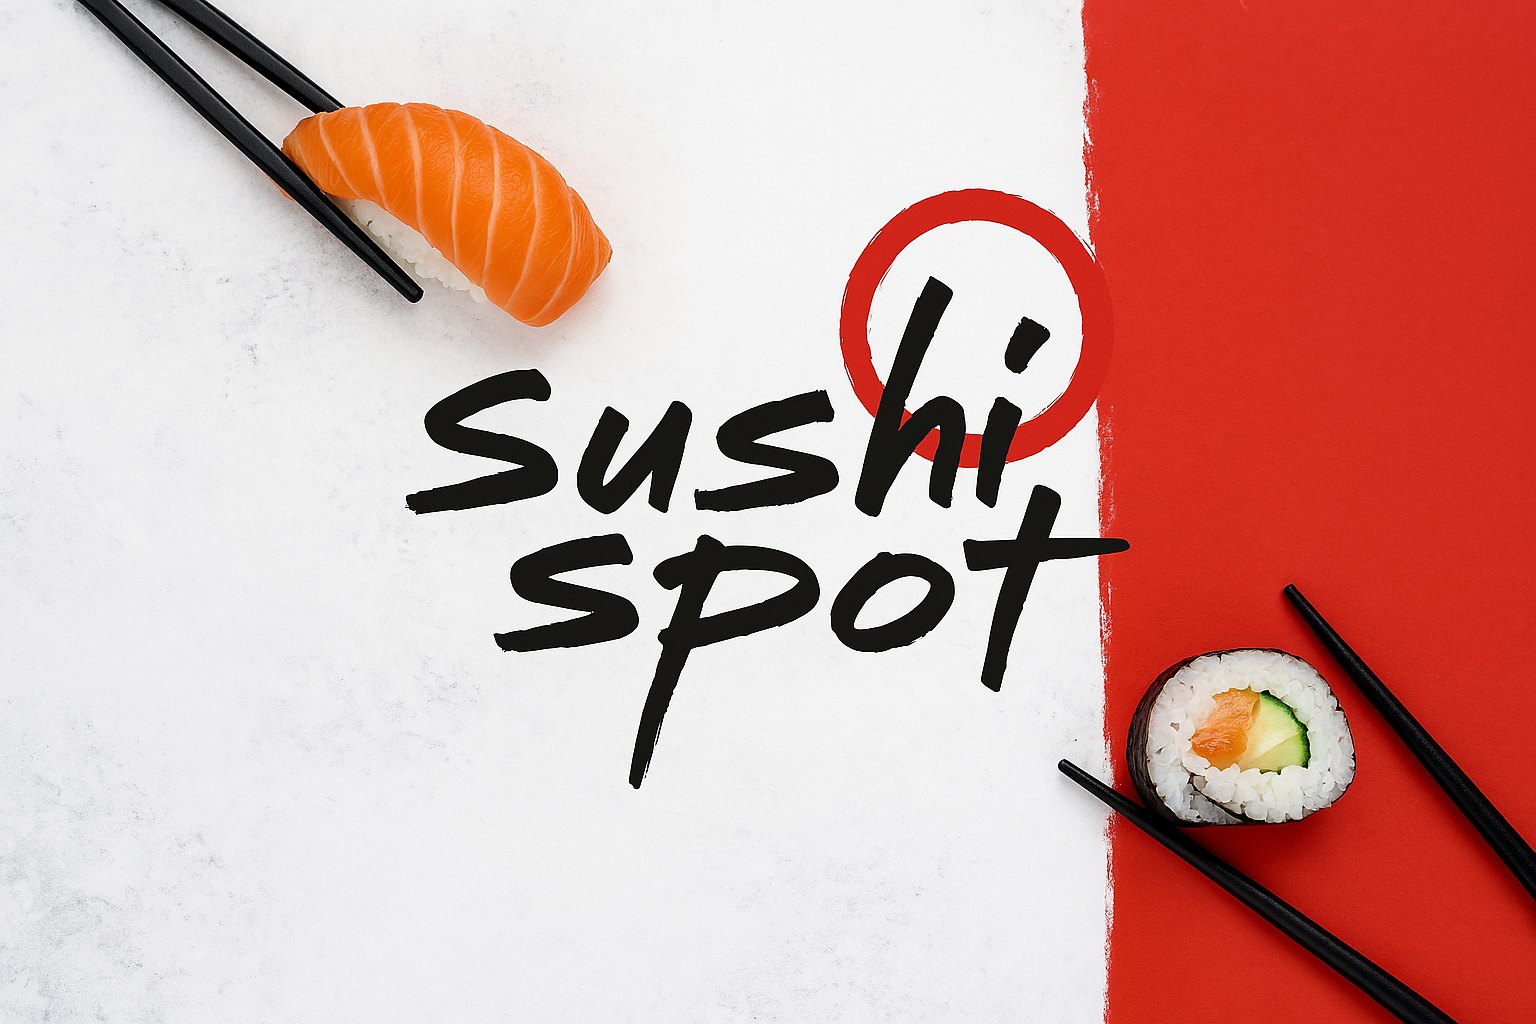
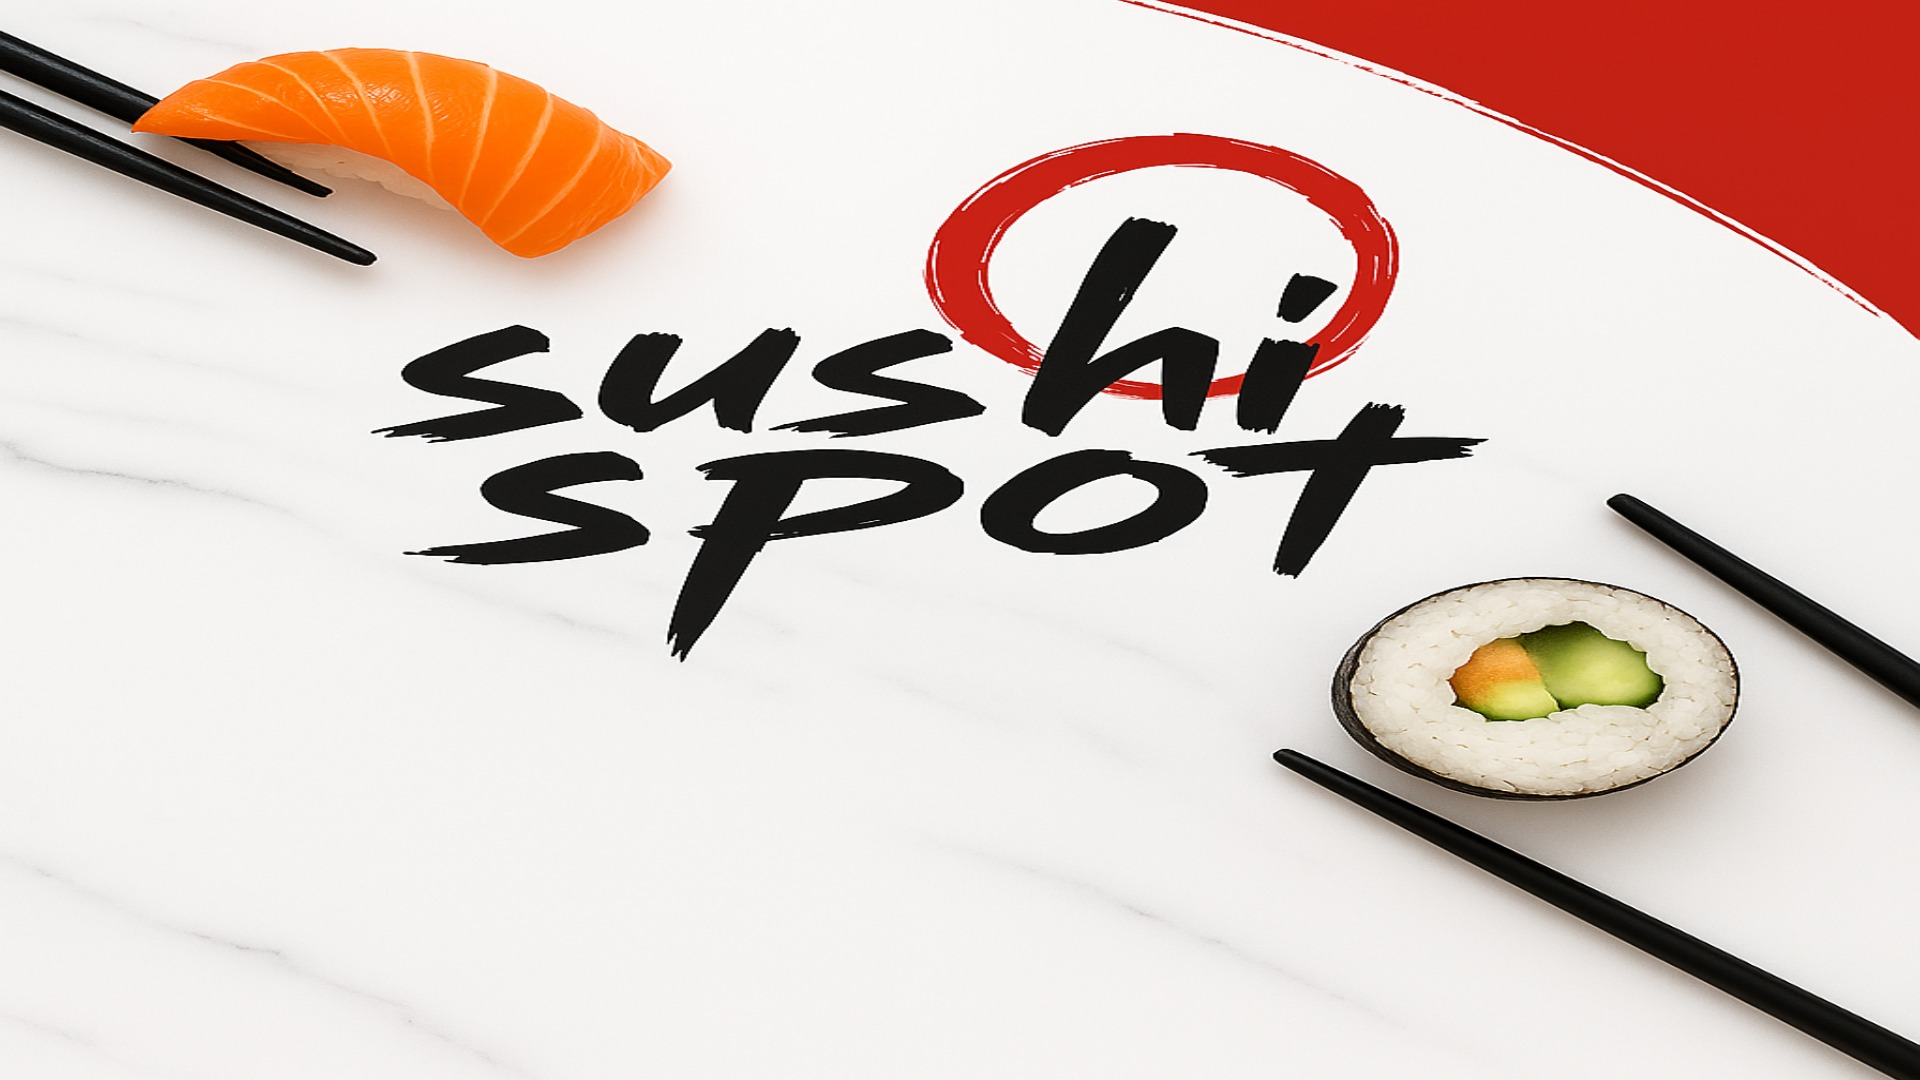
tvoj popis zmeny

diff --git a/SushiSpot/style.css b/SushiSpot/style.css
@@ -4,14 +4,9 @@ body {
   font-family: Arial, sans-serif;
   margin: 0;
   padding: 0;
-  color: #222;
+  color: #fff;
 
-  background-image: url("SushiImage.jpeg");
-  background-size: cover;
-  background-repeat: no-repeat;
-  background-position: center center;
-  background-attachment: fixed;
-
+  
   position: relative;
   z-index: 0;
   min-height: 100vh;
@@ -24,12 +19,17 @@ body::before {
   left: 0;
   width: 100%;
   height: 100%;
-  background-color: rgba(0, 0, 0, 0.3);
+  background-color: rgba(0, 0, 0, 0.4);
   z-index: -1;
 }
 
+/* TIEŇ PRE LEPŠIU ČITATEĽNOSŤ */
+h1, h2, p, label, nav a {
+  text-shadow: 1px 1px 4px rgba(0, 0, 0, 0.7);
+}
+
 header {
-  background-color: transparent; /* odstráni čierny pás */
+  background-color: transparent;
   color: white;
   padding: 20px;
   text-align: center;
@@ -48,56 +48,54 @@ nav a {
   color: white;
   text-decoration: none;
   font-weight: bold;
+  font-size: 1.1rem;
 }
 
-section {
-  padding: 40px 20px;
-  max-width: 1000px;
-  margin: 0 auto;
-  background-color: rgba(255, 255, 255, 0.85);
-  border-radius: 10px;
-  box-shadow: 0 0 10px rgba(0, 0, 0, 0.2);
-}
-
-.gallery {
+/* Hero sekcia */
+.hero {
+  width: 100%;
   display: flex;
-  gap: 20px;
-  flex-wrap: wrap;
   justify-content: center;
+  align-items: center;
+  padding: 0px 0; /* voľné miesto hore a dole */
+  background-color: #000; /* voliteľné: pozadie okolo obrázka */
 }
 
-.gallery img {
-  width: 200px;
-  border-radius: 10px;
-  box-shadow: 0 2px 8px rgba(0,0,0,0.2);
+.hero img {
+  max-width: 100%;
+  height: auto;
+  display: block;
+  object-fit: contain;
 }
 
-form {
-  display: flex;
-  flex-direction: column;
-  gap: 15px;
-  max-width: 400px;
-  margin: 0 auto;
-}
 
-input, textarea {
-  padding: 10px;
-  border: 1px solid #ccc;
-  border-radius: 5px;
-}
 
-button {
-  background-color: #111;
-  color: white;
-  padding: 10px;
-  border: none;
-  border-radius: 5px;
-  cursor: pointer;
-}
+
 
 @media (max-width: 768px) {
   body {
     background-attachment: scroll;
     background-position: center center;
+  }
+
+  nav ul {
+    flex-direction: column;
+    gap: 1rem;
+  }
+
+  h1 {
+    font-size: 1.8rem;
+  }
+
+  nav a {
+    font-size: 1rem;
+  }
+
+  .hero-content h1 {
+    font-size: 2rem;
+  }
+
+  .hero-content p {
+    font-size: 1rem;
   }
 }

diff --git a/SushiSpot/kontakt.html b/SushiSpot/kontakt.html
@@ -1,0 +1,33 @@
+<!DOCTYPE html>
+<html lang="sk">
+<head>
+  <meta charset="UTF-8">
+  <meta name="viewport" content="width=device-width, initial-scale=1.0">
+  <title>Kontakt – SushiSpot</title>
+  <link rel="stylesheet" href="style.css">
+</head>
+<body>
+  <header>
+    <h1>SushiSpot – Kontakt</h1>
+    <nav>
+      <ul>
+        <li><a href="index.html">Domov</a></li>
+        <li><a href="onas.html">O nás</a></li>
+        <li><a href="galeria.html">Galéria</a></li>
+      </ul>
+    </nav>
+  </header>
+
+  <section id="kontakt">
+    <h2>Kontaktuj nás</h2>
+    <form>
+      <input type="text" placeholder="Tvoje meno" required>
+      <input type="email" placeholder="Email" required>
+      <textarea placeholder="Správa" required></textarea>
+      <button type="submit">Odoslať</button>
+    </form>
+  </section>
+
+  <script src="script.js"></script>
+</body>
+</html>

diff --git a/SushiSpot/onas.html b/SushiSpot/onas.html
@@ -3,26 +3,24 @@
 <head>
   <meta charset="UTF-8">
   <meta name="viewport" content="width=device-width, initial-scale=1.0">
-  <title>SushiSpot</title>
+  <title>O nás – SushiSpot</title>
   <link rel="stylesheet" href="style.css">
 </head>
 <body>
-
   <header>
-    <h1>SushiSpot</h1>
+    <h1>SushiSpot – O nás</h1>
     <nav>
       <ul>
-        <li><a href="galeria.html">Galéria</a></li>
-        <li><a href="onas.html">O nás</a></li>
+        <li><a href="index.html">Domov</a></li>
         <li><a href="kontakt.html">Kontakt</a></li>
+        <li><a href="galeria.html">Galéria</a></li>
       </ul>
     </nav>
   </header>
 
-  <div class="hero">
-    <img src="SushiImage.jpeg" alt="SushiSpot pozadie">
-  </div>
-  
-
+  <section id="onas">
+    <h2>O nás</h2>
+    <p>Sme moderné sushi bistro plné chutí, čerstvosti a tradície.</p>
+  </section>
 </body>
 </html>
